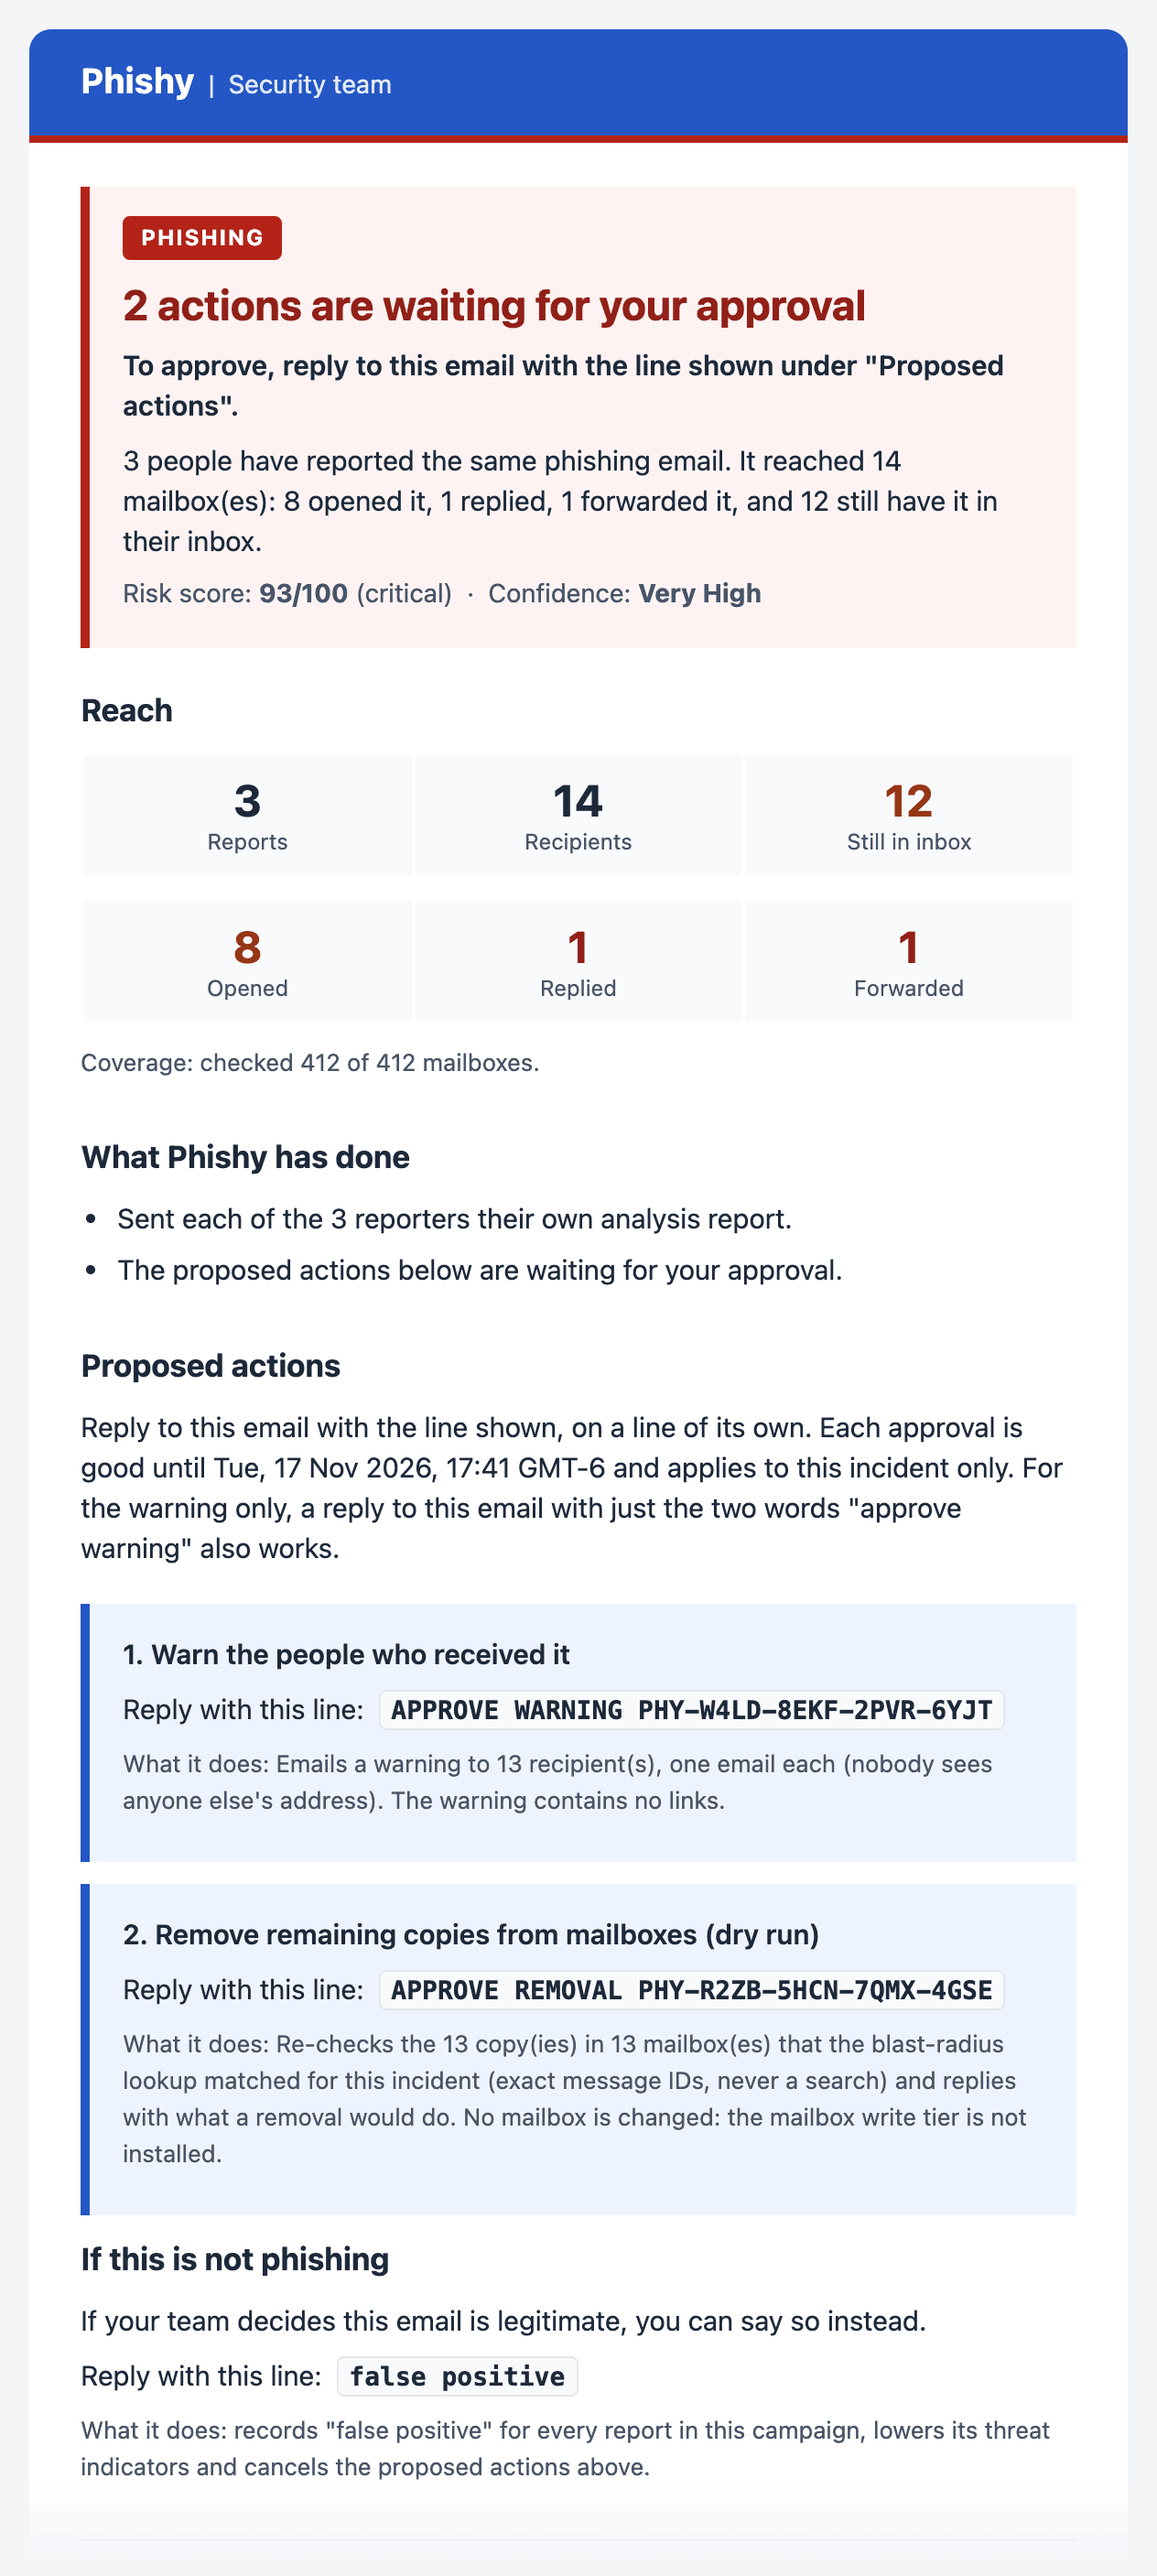
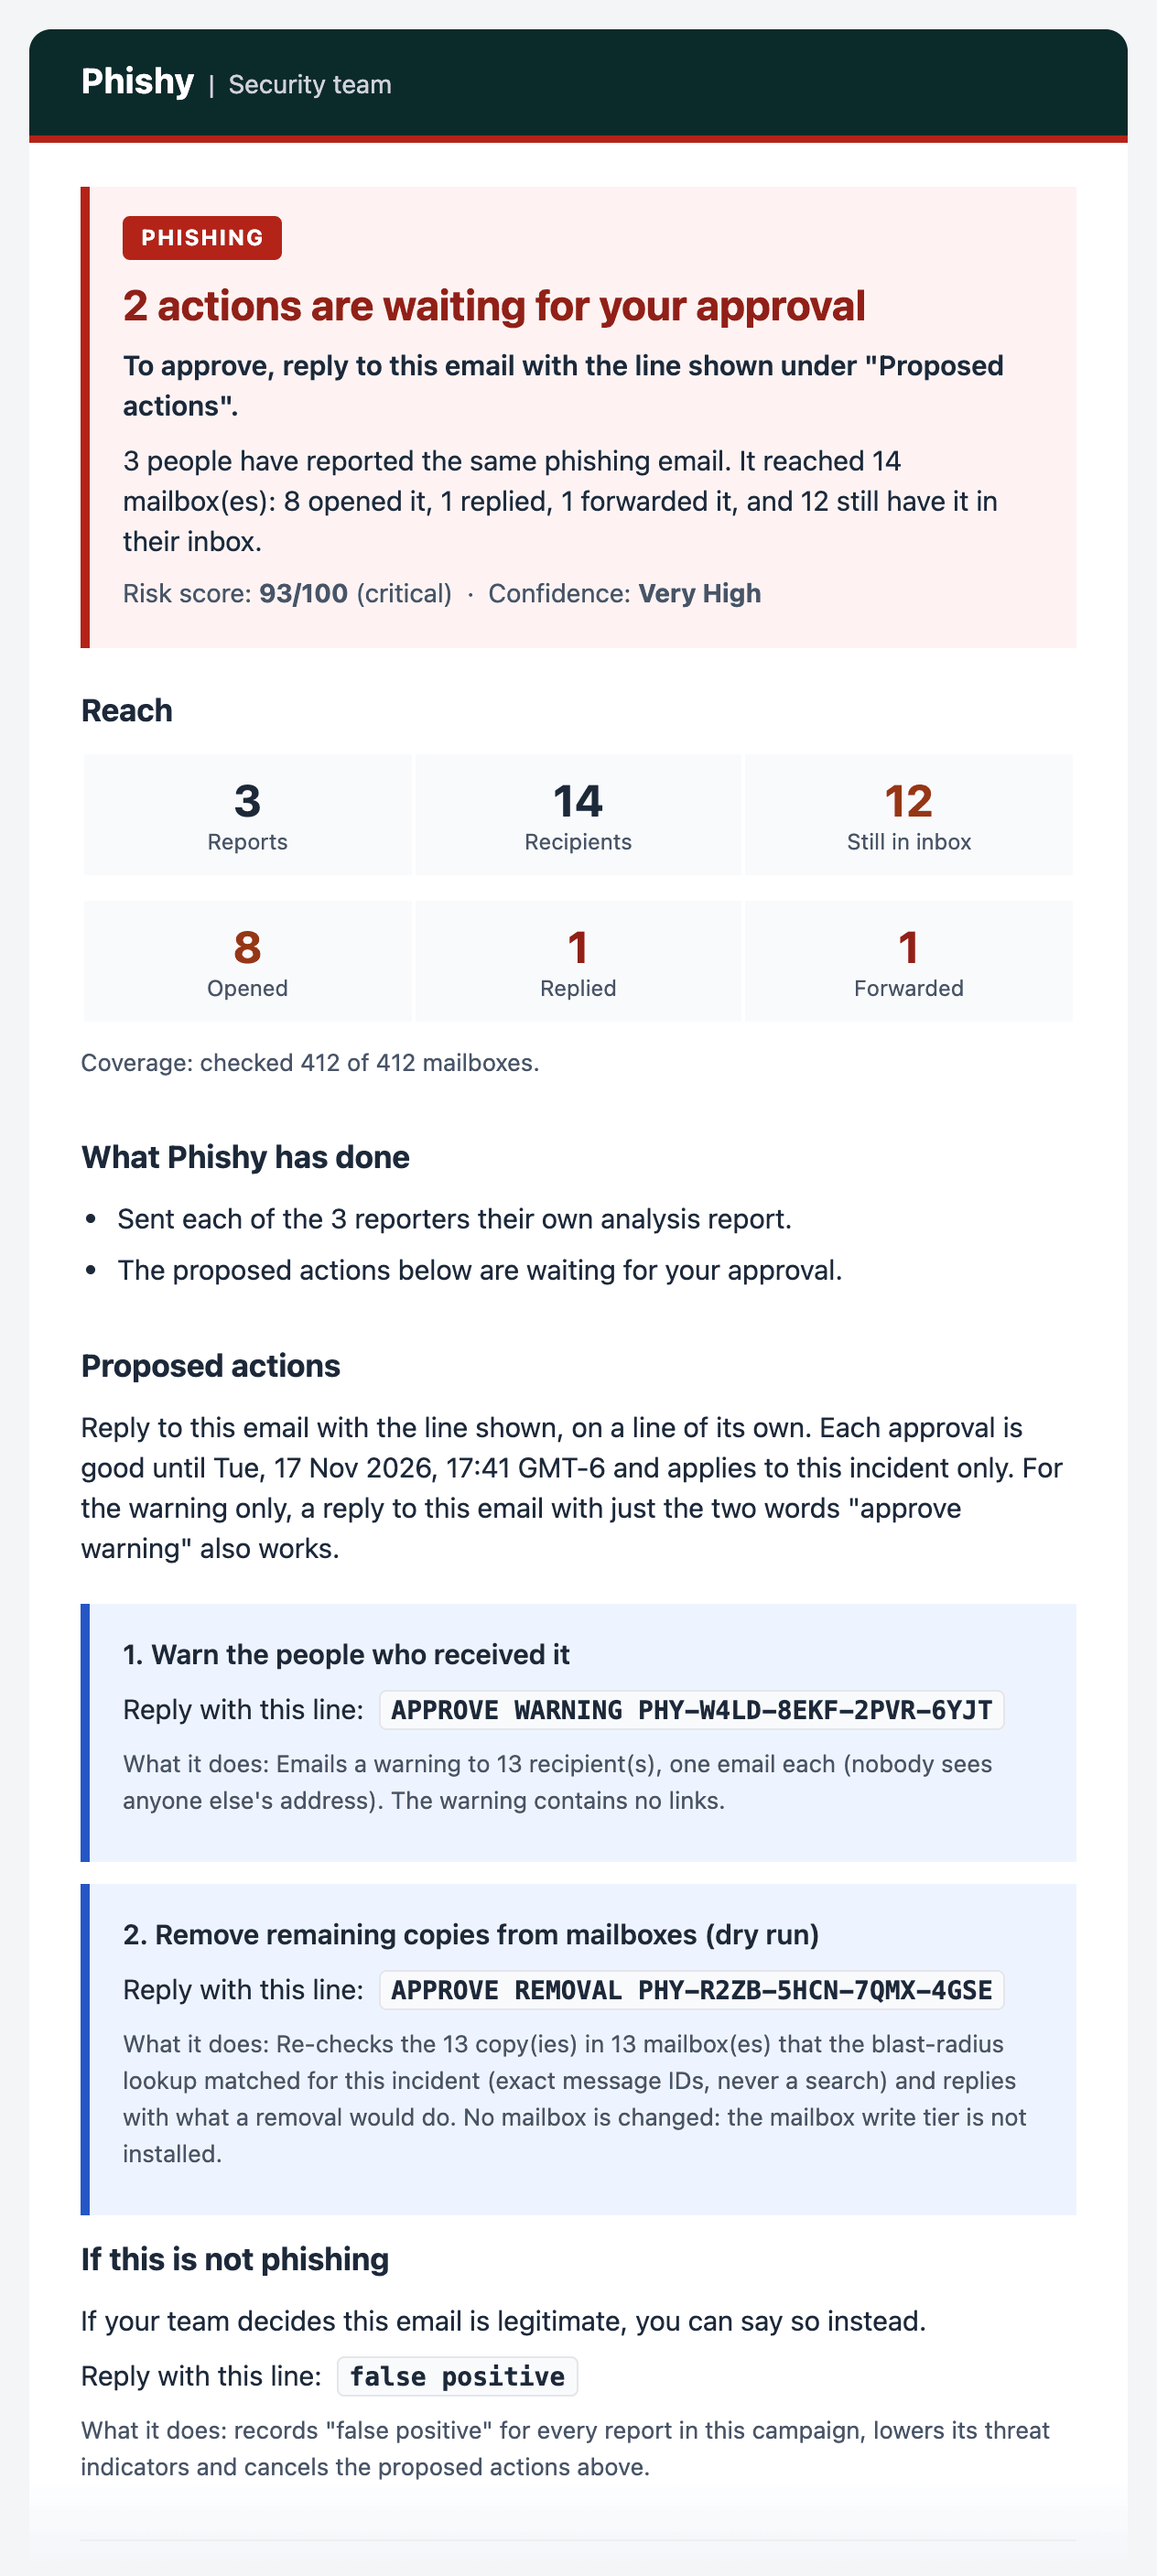
chore: brand polish for the emails, README and try output
The header band of every email becomes a near-black teal, chosen so it
cannot be read as a verdict colour. The README is titled Phishy with one
tagline shared by package.json and the npm run try output. Example
screenshots re-rendered.

Changed region(s): [[0.0, 0.0, 0.9873, 0.0618]]

diff --git a/src/cli/try.main.ts b/src/cli/try.main.ts
@@ -69,6 +69,7 @@ Try the bundled sample: npx phishy-try examples/sample-phish.eml`);
 
   const emailData = parser.extractEmailData(events[0].msg);
 
+  console.log(`\n${BOLD}Phishy${RESET}  ${DIM}open-source phishing response · local run${RESET}`);
   console.log(`\n${BOLD}=== PARSED (what the Lambda would see) ===${RESET}`);
   console.log(`Subject:    ${emailData.subject}`);
   console.log(`From:       ${emailData.from_email}`);

diff --git a/src/templates/layout.ts b/src/templates/layout.ts
@@ -49,9 +49,11 @@ export const COLOR = {
   quiet: '#667085',
   border: '#E4E7EC',
   panel: '#F9FAFB',
-  accent: '#2457C5',
+  // Near-black teal: the brand's ink colour, dark enough that it cannot be
+  // read as the green of a "safe" verdict
+  accent: '#0B2B2A',
   onAccent: '#FFFFFF',
-  onAccentSoft: '#DCE6FF',
+  onAccentSoft: '#C9DCDA',
 };
 
 /** Severity colours: `solid` carries white text, `ink` sits on `soft` */

diff --git a/CHANGELOG.md b/CHANGELOG.md
@@ -82,6 +82,7 @@ Everything below is new or changed relative to v3.0.0. Every new layer is off by
 
 ### Changed
 
+- **Brand polish.** The header band of every email is now a near-black teal (it was blue), chosen so it cannot be read as a verdict colour; the README is titled "Phishy" with one tagline shared by the README, `package.json` and the `npm run try` output; the example screenshots are re-rendered.
 - README screenshots re-rendered from the redesigned templates (the four analysis reports, same file names), plus new ones of the incident email (`examples/incident-email.png`), the employee warning (`examples/campaign-warning.png`) and the fan-out alert (`examples/fanout-alert.png`). `scripts/render-example-emails.ts` (run with `npx tsx`) replaces `scripts/render-report-samples.js`: it writes each example's HTML from the real builders with invented data and, with `--png`, screenshots them (680px, 2x, cropped to the card). How to regenerate: `examples/README.md`
 - Dependency updates (no behaviour change): AWS SDK v3 clients 3.1077 → 3.1173, `pg` 8.23.1, `mailparser` 3.9.12 → 3.14.5, eslint 10.15, typescript-eslint 8.73, jest 30.5, ts-jest 29.4.15, prettier 3.10, esbuild 0.28.2, and `actions/setup-node` v6 → v7 in CI. `@types/mailparser` is removed because mailparser now ships its own types. Parser output for every `.eml` fixture is identical before and after the mailparser upgrade, except `textAsHtml` (which Phishy does not read), where bare email addresses are now linked. TypeScript stays on 6.0: 7.x drops the JS compiler API that ts-jest and typescript-eslint depend on
 - **Default model is Claude Opus 5.5** on both providers (`claude-opus-5-5` / `global.anthropic.claude-opus-5-5`). It always thinks and thinking counts toward `max_tokens`, so the default `maxTokens` rises 4096→16000; no `thinking` field is sent. A pinned `maxTokens` of 4096 should be raised before moving to Opus 5.5.

diff --git a/README.md b/README.md
@@ -2,7 +2,9 @@
   <img src="docs/assets/phishy-logo.svg" width="160" alt="Phishy logo: a fish whose body is an envelope">
 </p>
 
-# Phishy Email Analyzer
+# Phishy
+
+**Open-source phishing response for your organization.**
 
 [![CI](https://github.com/colinstoner/phishy-email-analyzer/actions/workflows/ci.yml/badge.svg)](https://github.com/colinstoner/phishy-email-analyzer/actions/workflows/ci.yml)
 [![License: Apache-2.0](https://img.shields.io/badge/License-Apache_2.0-blue.svg)](LICENSE)
